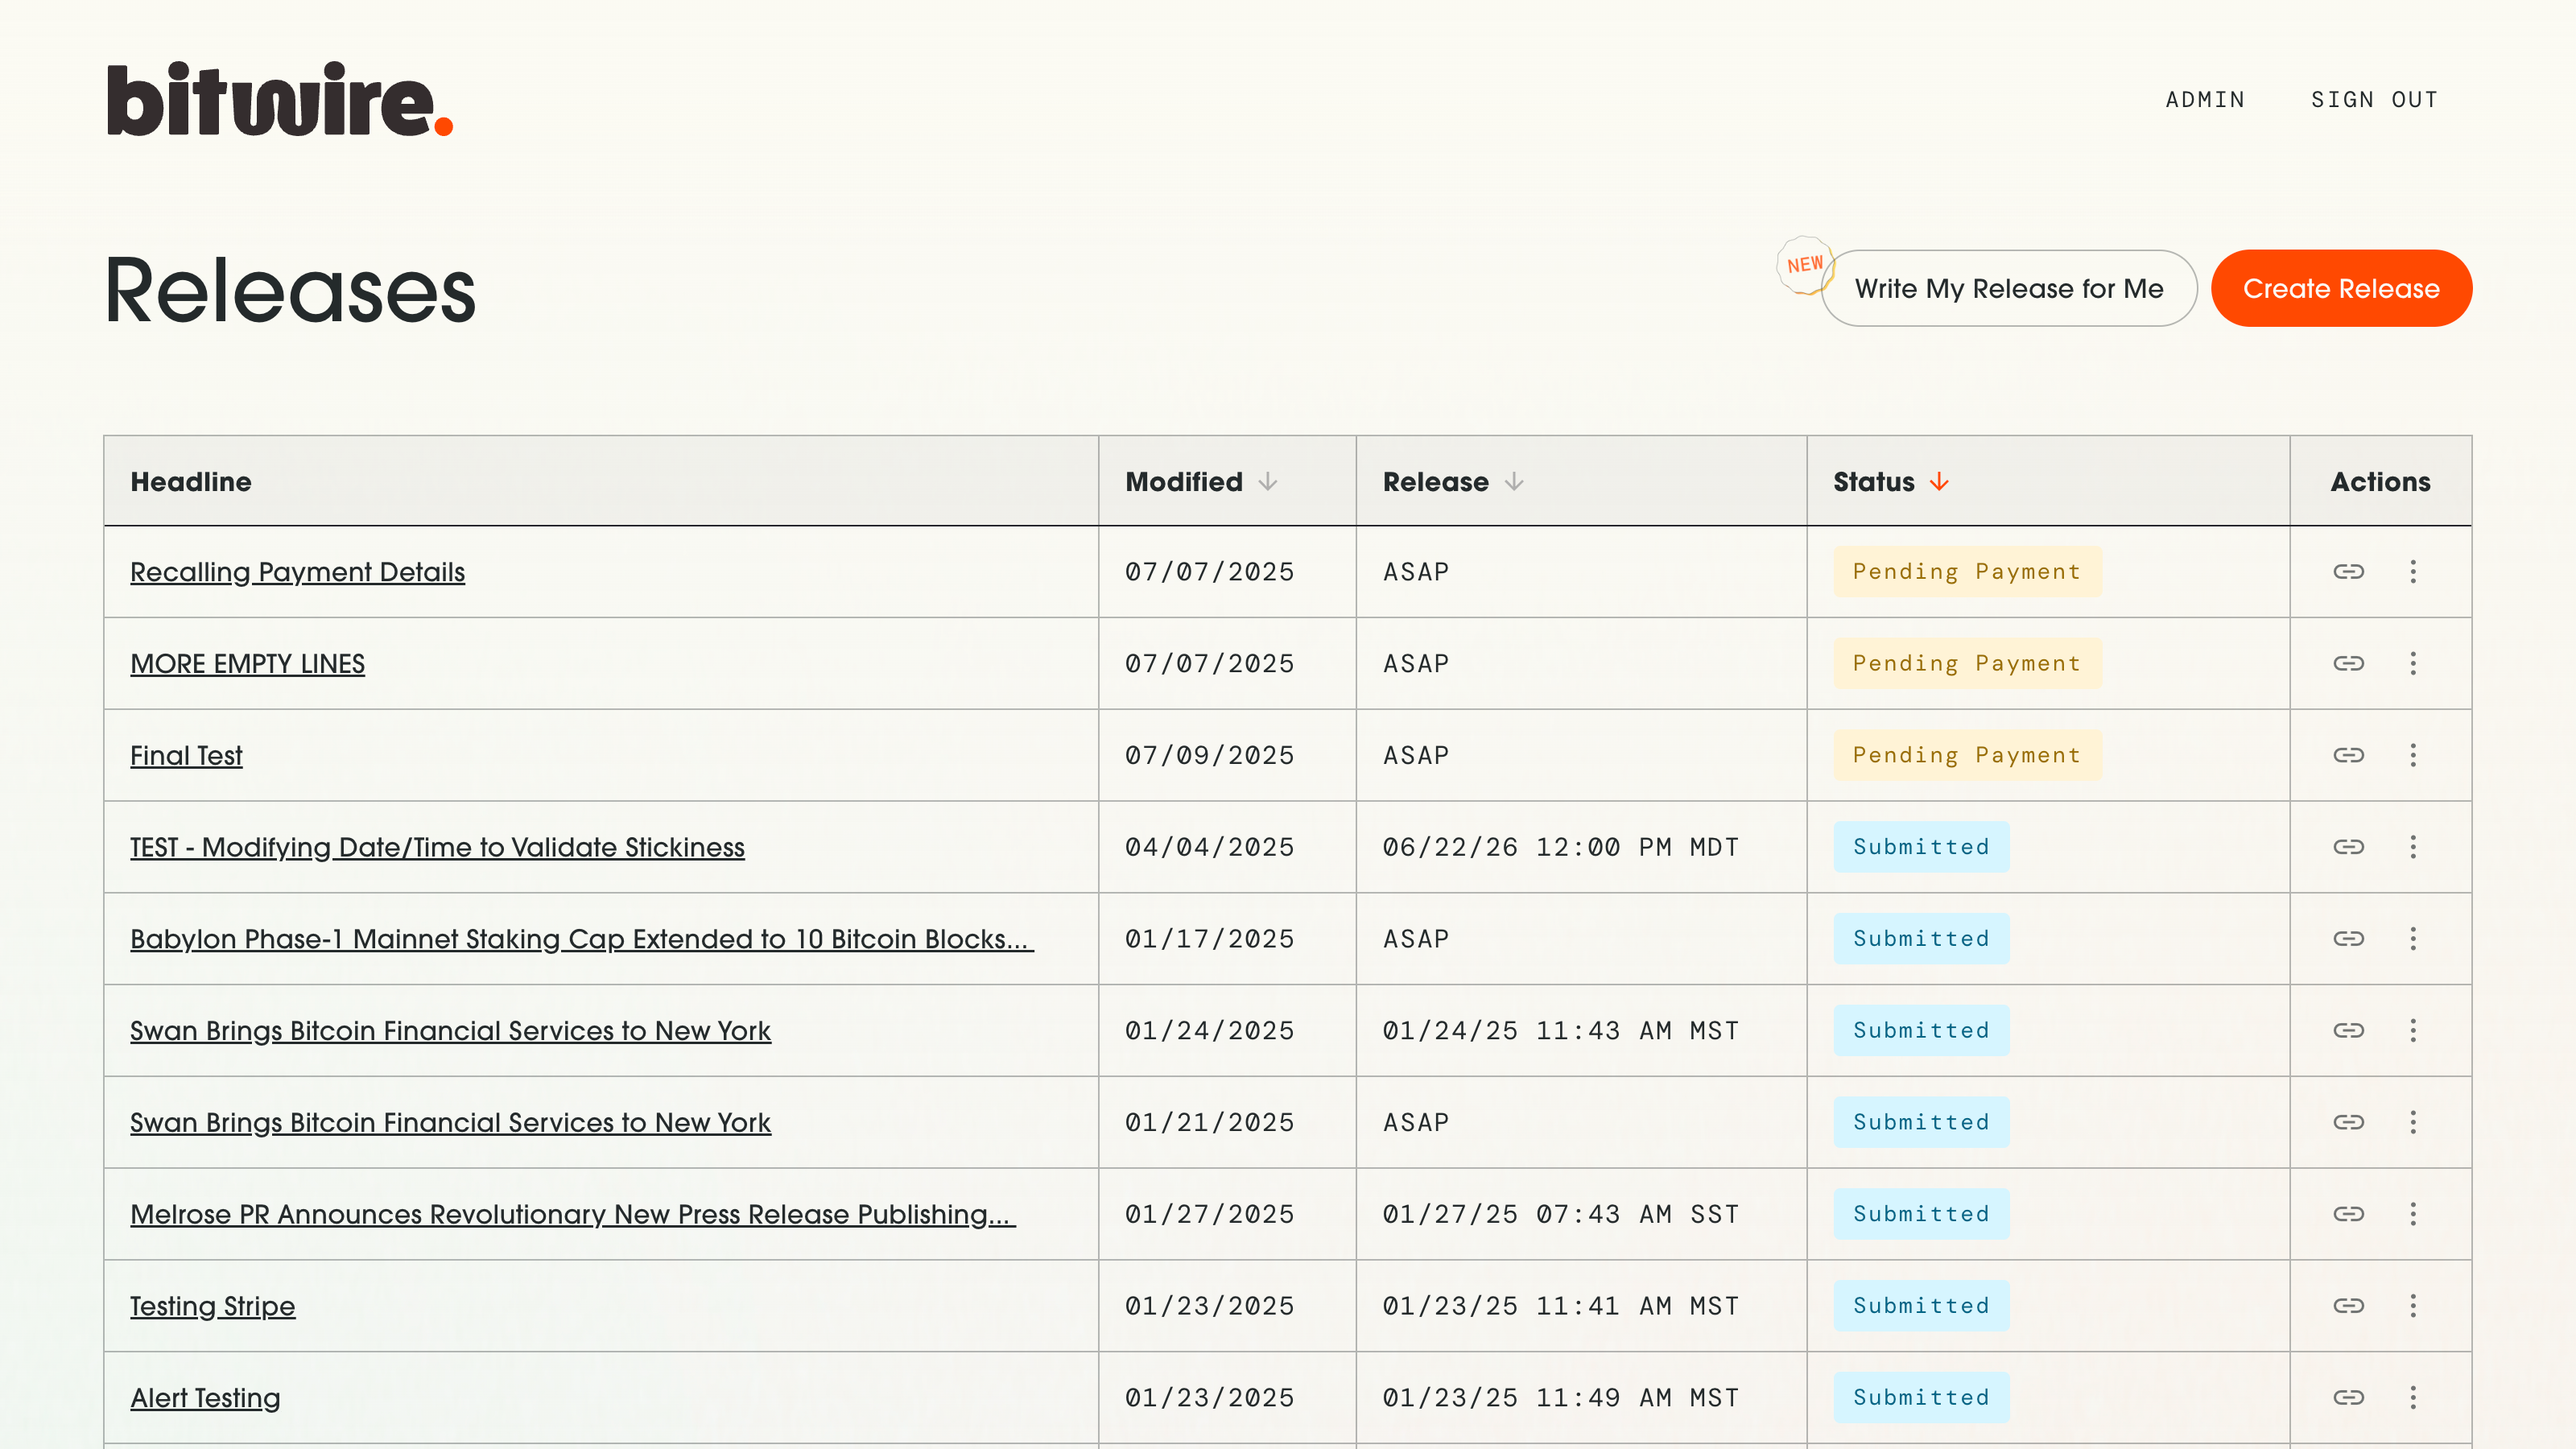
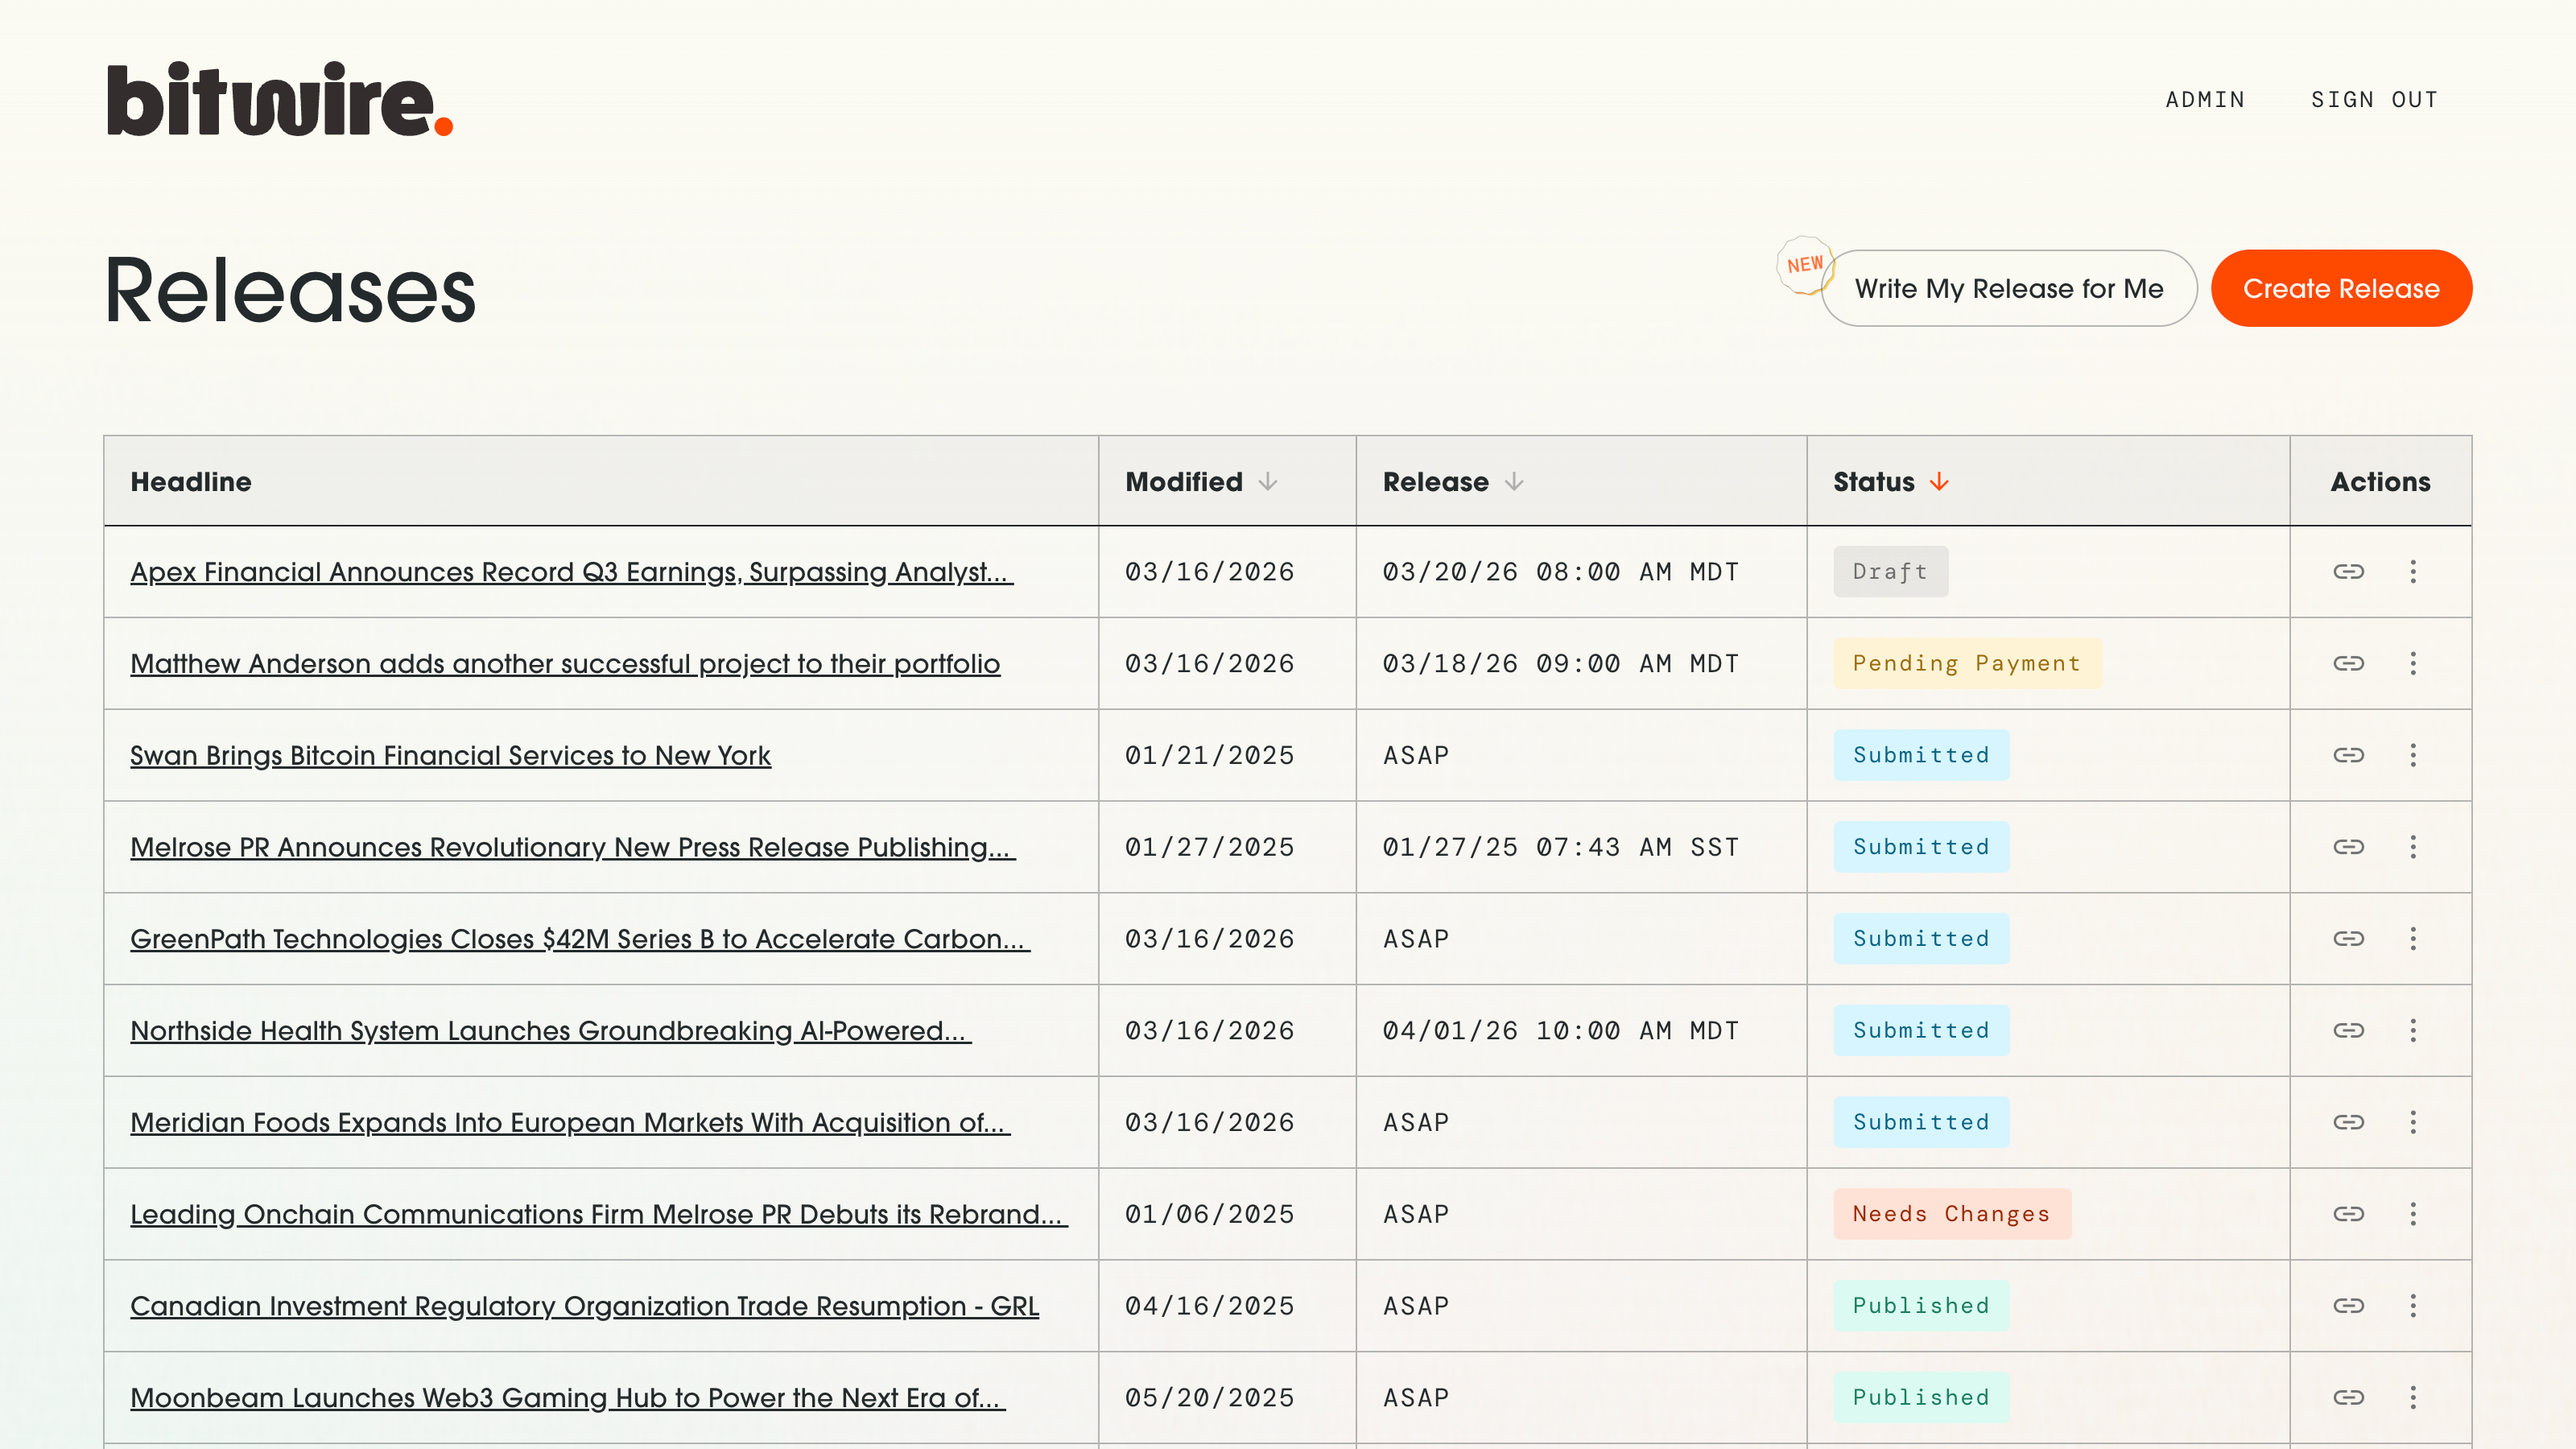
Adding remaining Bitwire product screenshots.

diff --git a/src/bitwire/index.html b/src/bitwire/index.html
@@ -94,6 +94,77 @@
                 </include>
               </a>
             </li>
+            <li>
+              <a href="/src/images/bitwire/product/preview.png" data-fancybox="gallery-product-desktop" data-caption="CAPTION">
+                <include src="partials/_screenshot-desktop.html">
+                  {
+                    "project": "bitwire/product",
+                    "filename": "preview",
+                    "alt": "Bitwire – Preview Screenshot",
+                    "loading": "lazy"
+                  }
+                </include>
+              </a>
+            </li>
+            <li>
+              <a href="/src/images/bitwire/product/distribute.png" data-fancybox="gallery-product-desktop" data-caption="CAPTION">
+                <include src="partials/_screenshot-desktop.html">
+                  {
+                    "project": "bitwire/product",
+                    "filename": "distribute",
+                    "alt": "Bitwire – Distribute Screenshot",
+                    "loading": "lazy"
+                  }
+                </include>
+              </a>
+            </li>
+            <li>
+              <a href="/src/images/bitwire/product/payment-link.png" data-fancybox="gallery-product-desktop" data-caption="CAPTION">
+                <include src="partials/_screenshot-desktop.html">
+                  {
+                    "project": "bitwire/product",
+                    "filename": "payment-link",
+                    "alt": "Bitwire – Payment Link Screenshot",
+                    "loading": "lazy"
+                  }
+                </include>
+              </a>
+            </li>
+            <li>
+              <a href="/src/images/bitwire/product/admin-releases.png" data-fancybox="gallery-product-desktop" data-caption="CAPTION">
+                <include src="partials/_screenshot-desktop.html">
+                  {
+                    "project": "bitwire/product",
+                    "filename": "admin-releases",
+                    "alt": "Bitwire – Admin Releases Screenshot",
+                    "loading": "lazy"
+                  }
+                </include>
+              </a>
+            </li>
+            <li>
+              <a href="/src/images/bitwire/product/admin-release-distributions.png" data-fancybox="gallery-product-desktop" data-caption="CAPTION">
+                <include src="partials/_screenshot-desktop.html">
+                  {
+                    "project": "bitwire/product",
+                    "filename": "admin-release-distributions",
+                    "alt": "Bitwire – Admin Release Distributions Screenshot",
+                    "loading": "lazy"
+                  }
+                </include>
+              </a>
+            </li>            <li>
+              <a href="/src/images/bitwire/product/admin-customer.png" data-fancybox="gallery-product-desktop" data-caption="CAPTION">
+                <include src="partials/_screenshot-desktop.html">
+                  {
+                    "project": "bitwire/product",
+                    "filename": "admin-customer",
+                    "alt": "Bitwire – Admin Customer Screenshot",
+                    "loading": "lazy"
+                  }
+                </include>
+              </a>
+            </li>
           </ul>
         </div>
         <figcaption>Screenshots of the Bitwire product on desktop.</figcaption>
@@ -204,11 +275,11 @@
         <div class="scroll-view">
           <ul>
             <li>
-              <a href="/src/images/bitwire/website/features-2-mobile.png" data-fancybox="gallery-website-mobile" data-caption="CAPTION">
+              <a href="/src/images/bitwire/website/home-mobile.png" data-fancybox="gallery-website-mobile" data-caption="CAPTION">
                 <include src="partials/_screenshot-mobile.html">
                   {
                     "project": "bitwire/website",
-                    "filename": "features-2-mobile",
+                    "filename": "home-mobile",
                     "alt": "Bitwire – Featurtes 2 screenshot",
                     "loading": "lazy"
                   }
